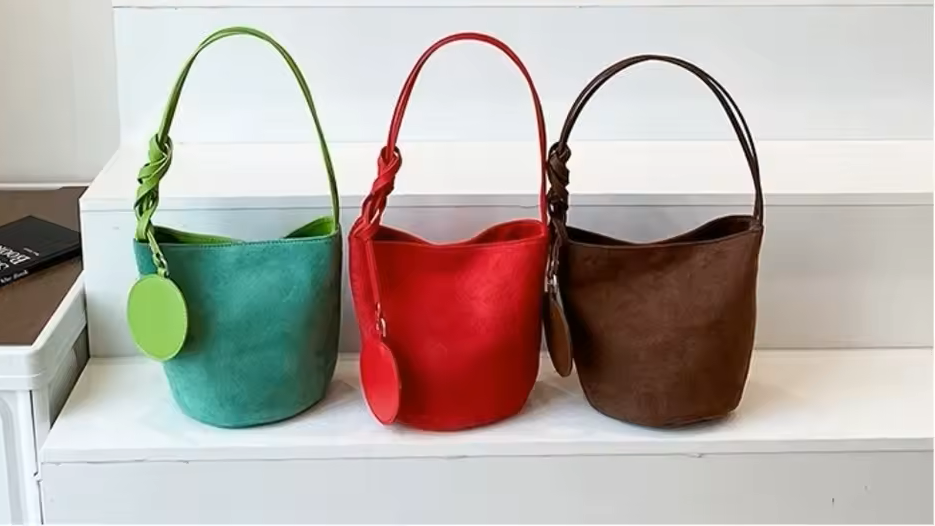
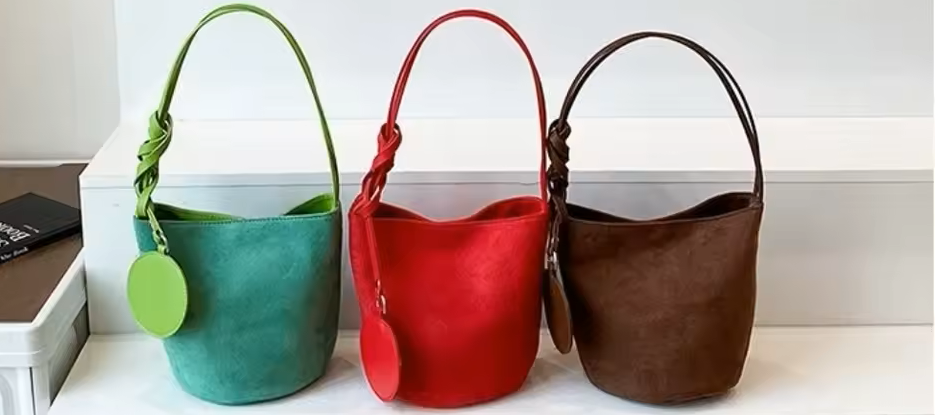
Update - homepage css melhorado

diff --git a/src/index.css b/src/index.css
@@ -1076,3 +1076,55 @@ a {
     grid-template-columns: repeat(2, minmax(0, 1fr));
   }
 }
+
+/* Ajuste de tamanho da home page */
+.hero,
+.home-products {
+  max-width: 1200px;
+  margin: 0 auto;
+}
+
+.hero {
+  padding-left: 24px;
+  padding-right: 24px;
+}
+
+.hero-banner img {
+  width: 100%;
+  height: 460px;
+  object-fit: cover;
+  display: block;
+}
+
+.home-products {
+  padding: 64px 24px 80px;
+}
+
+.home-products-heading h2 {
+  font-size: 30px;
+  margin: 12px 0 28px;
+}
+
+.home-products-grid {
+  gap: 20px;
+}
+
+.home-product-card img {
+  aspect-ratio: 3 / 4;
+  max-height: 380px;
+  object-fit: cover;
+}
+
+.home-product-card h3 {
+  font-size: 13px;
+}
+
+@media (max-width: 860px) {
+  .hero-banner img {
+    height: 320px;
+  }
+
+  .home-products-grid {
+    grid-template-columns: repeat(2, minmax(0, 1fr));
+  }
+}
